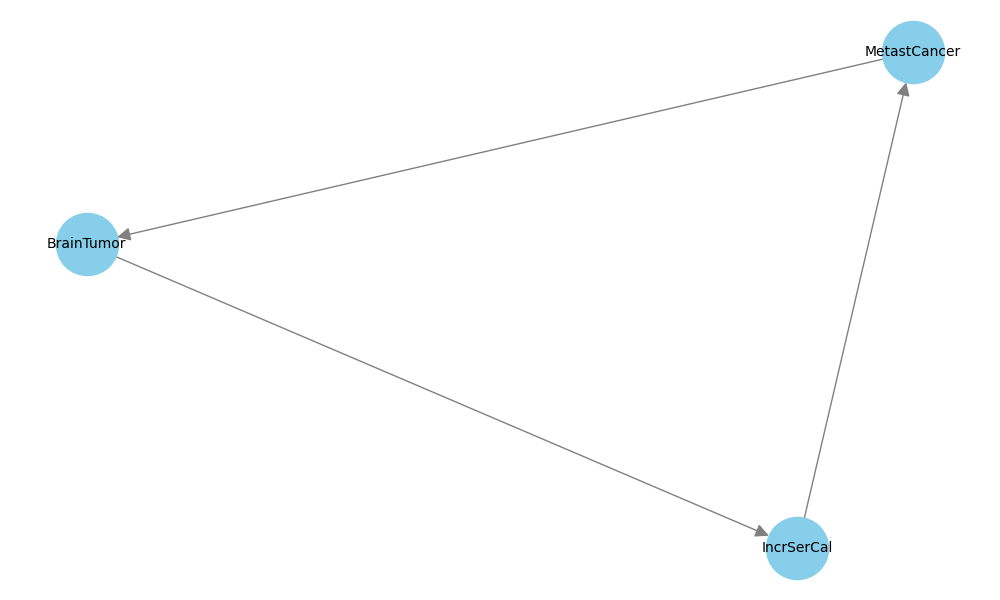
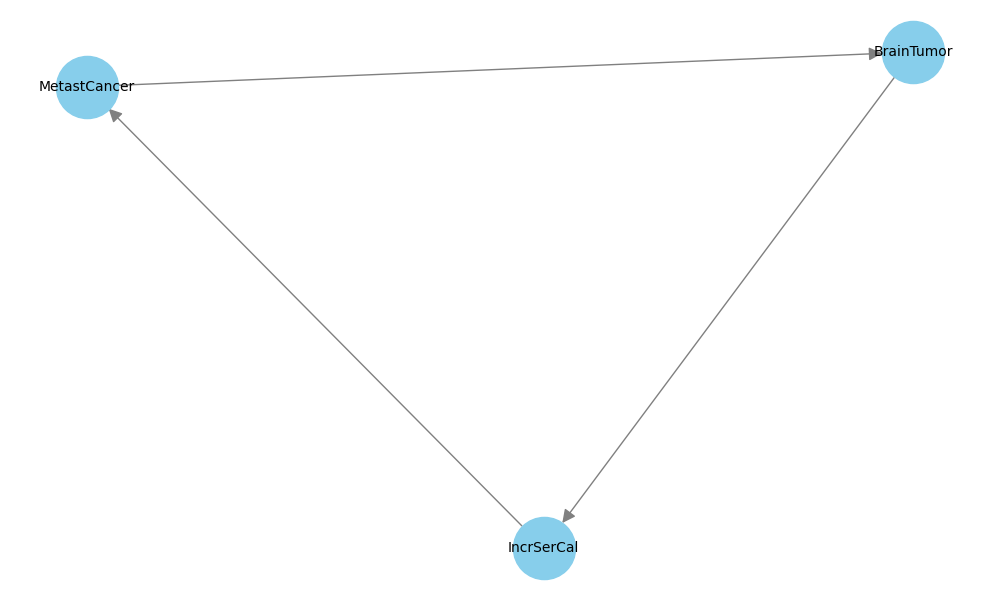
Run Pipeline

diff --git a/validation.py b/validation.py
@@ -46,7 +46,7 @@ def detect_cycles():
 
     try:
         cycles = nx.find_cycle(graph, orientation='original')
-        yield show_graph(cycles)
+        cycles_image_save(cycles)
         output = "Graph has cycles:\n"
         output += f"{cycles}\n\n"
         output += f"Edges of the cycle:\n"
@@ -57,7 +57,8 @@ def detect_cycles():
     except nx.exception.NetworkXNoCycle:
         yield "No cycles detected in the graph."
 
-def show_graph(cycles):
+
+def cycles_image_save(cycles):
     # Create a directed graph
     G = nx.DiGraph()
 
@@ -94,8 +95,6 @@ def show_graph(cycles):
     plt.title('Directed Graph')
     plt.savefig("directed_graph.png")
 
-    return "directed_graph.png"
-
 
 def run_pipeline(file):
     output = ""
@@ -105,52 +104,19 @@ def run_pipeline(file):
     for xdsl_content in parse_xdsl_gen:
         output += xdsl_content
 
-    output += f"{'='*90}\n\n"
+    output += f"{'=' * 90}\n\n"
 
     output += "CHECKING CYCLES:\n\n"
     cycle_message = detect_cycles()
     for msg in cycle_message:
-        print(msg)
         output += msg
 
-    output += f"\n{'='*90}\n\n"
+    output += f"\n{'=' * 90}\n\n"
 
     yield output
 
 
-# Create Gradio interface
-read_file_button = gr.Interface(
-    fn=parse_xdsl,
-    inputs=gr.File(file_types=['.xdsl']),
-    outputs=[gr.Textbox(label="Status Message"), gr.Textbox(label="XDSL File Content"), ],
-    title="Read XDSL File",
-    description="Upload an XDSL file to read and parse its content.",
-    allow_flagging="never"
-)
-
-check_cycles_button = gr.Interface(
-    fn=detect_cycles,
-    inputs=None,
-    outputs=gr.Textbox(),
-    title="Check for Cycles",
-    description="Check the parsed graph for cycles.",
-    allow_flagging="never"
-)
-
-pipeline_button = gr.Interface(
-    fn=run_pipeline,
-    inputs=gr.File(file_types=['.xdsl']),
-    outputs=[gr.Textbox(label="XDSL File Content", elem_id="widened_textbox")],
-    title="Run Pipeline",
-    description="Upload an XDSL file to run the entire pipeline: read and check for cycles."
-)
-
-# app = gr.TabbedInterface(
-#     interface_list=[read_file_button, check_cycles_button, pipeline_button],
-#     tab_names=["Read File", "Check Cycles", "Run Pipeline"]
-# )
-
-with gr.Blocks() as app:
+with gr.Blocks() as demo:
     with gr.Tab("Read File"):
         gr.Interface(
             fn=parse_xdsl,
@@ -164,12 +130,11 @@ with gr.Blocks() as app:
         gr.Interface(
             fn=detect_cycles,
             inputs=None,
-            outputs=gr.Textbox(),
+            outputs=[gr.TextArea()],
             title="Check for Cycles",
             description="Check the parsed graph for cycles.",
-            allow_flagging="never"
+            allow_flagging="never",
         )
-        gr.Label("SHow Graph:")
     with gr.Tab("Run Pipeline"):
         gr.Interface(
             fn=run_pipeline,
@@ -180,4 +145,4 @@ with gr.Blocks() as app:
         )
 
 # Launch the interface
-app.launch()
+demo.launch()
